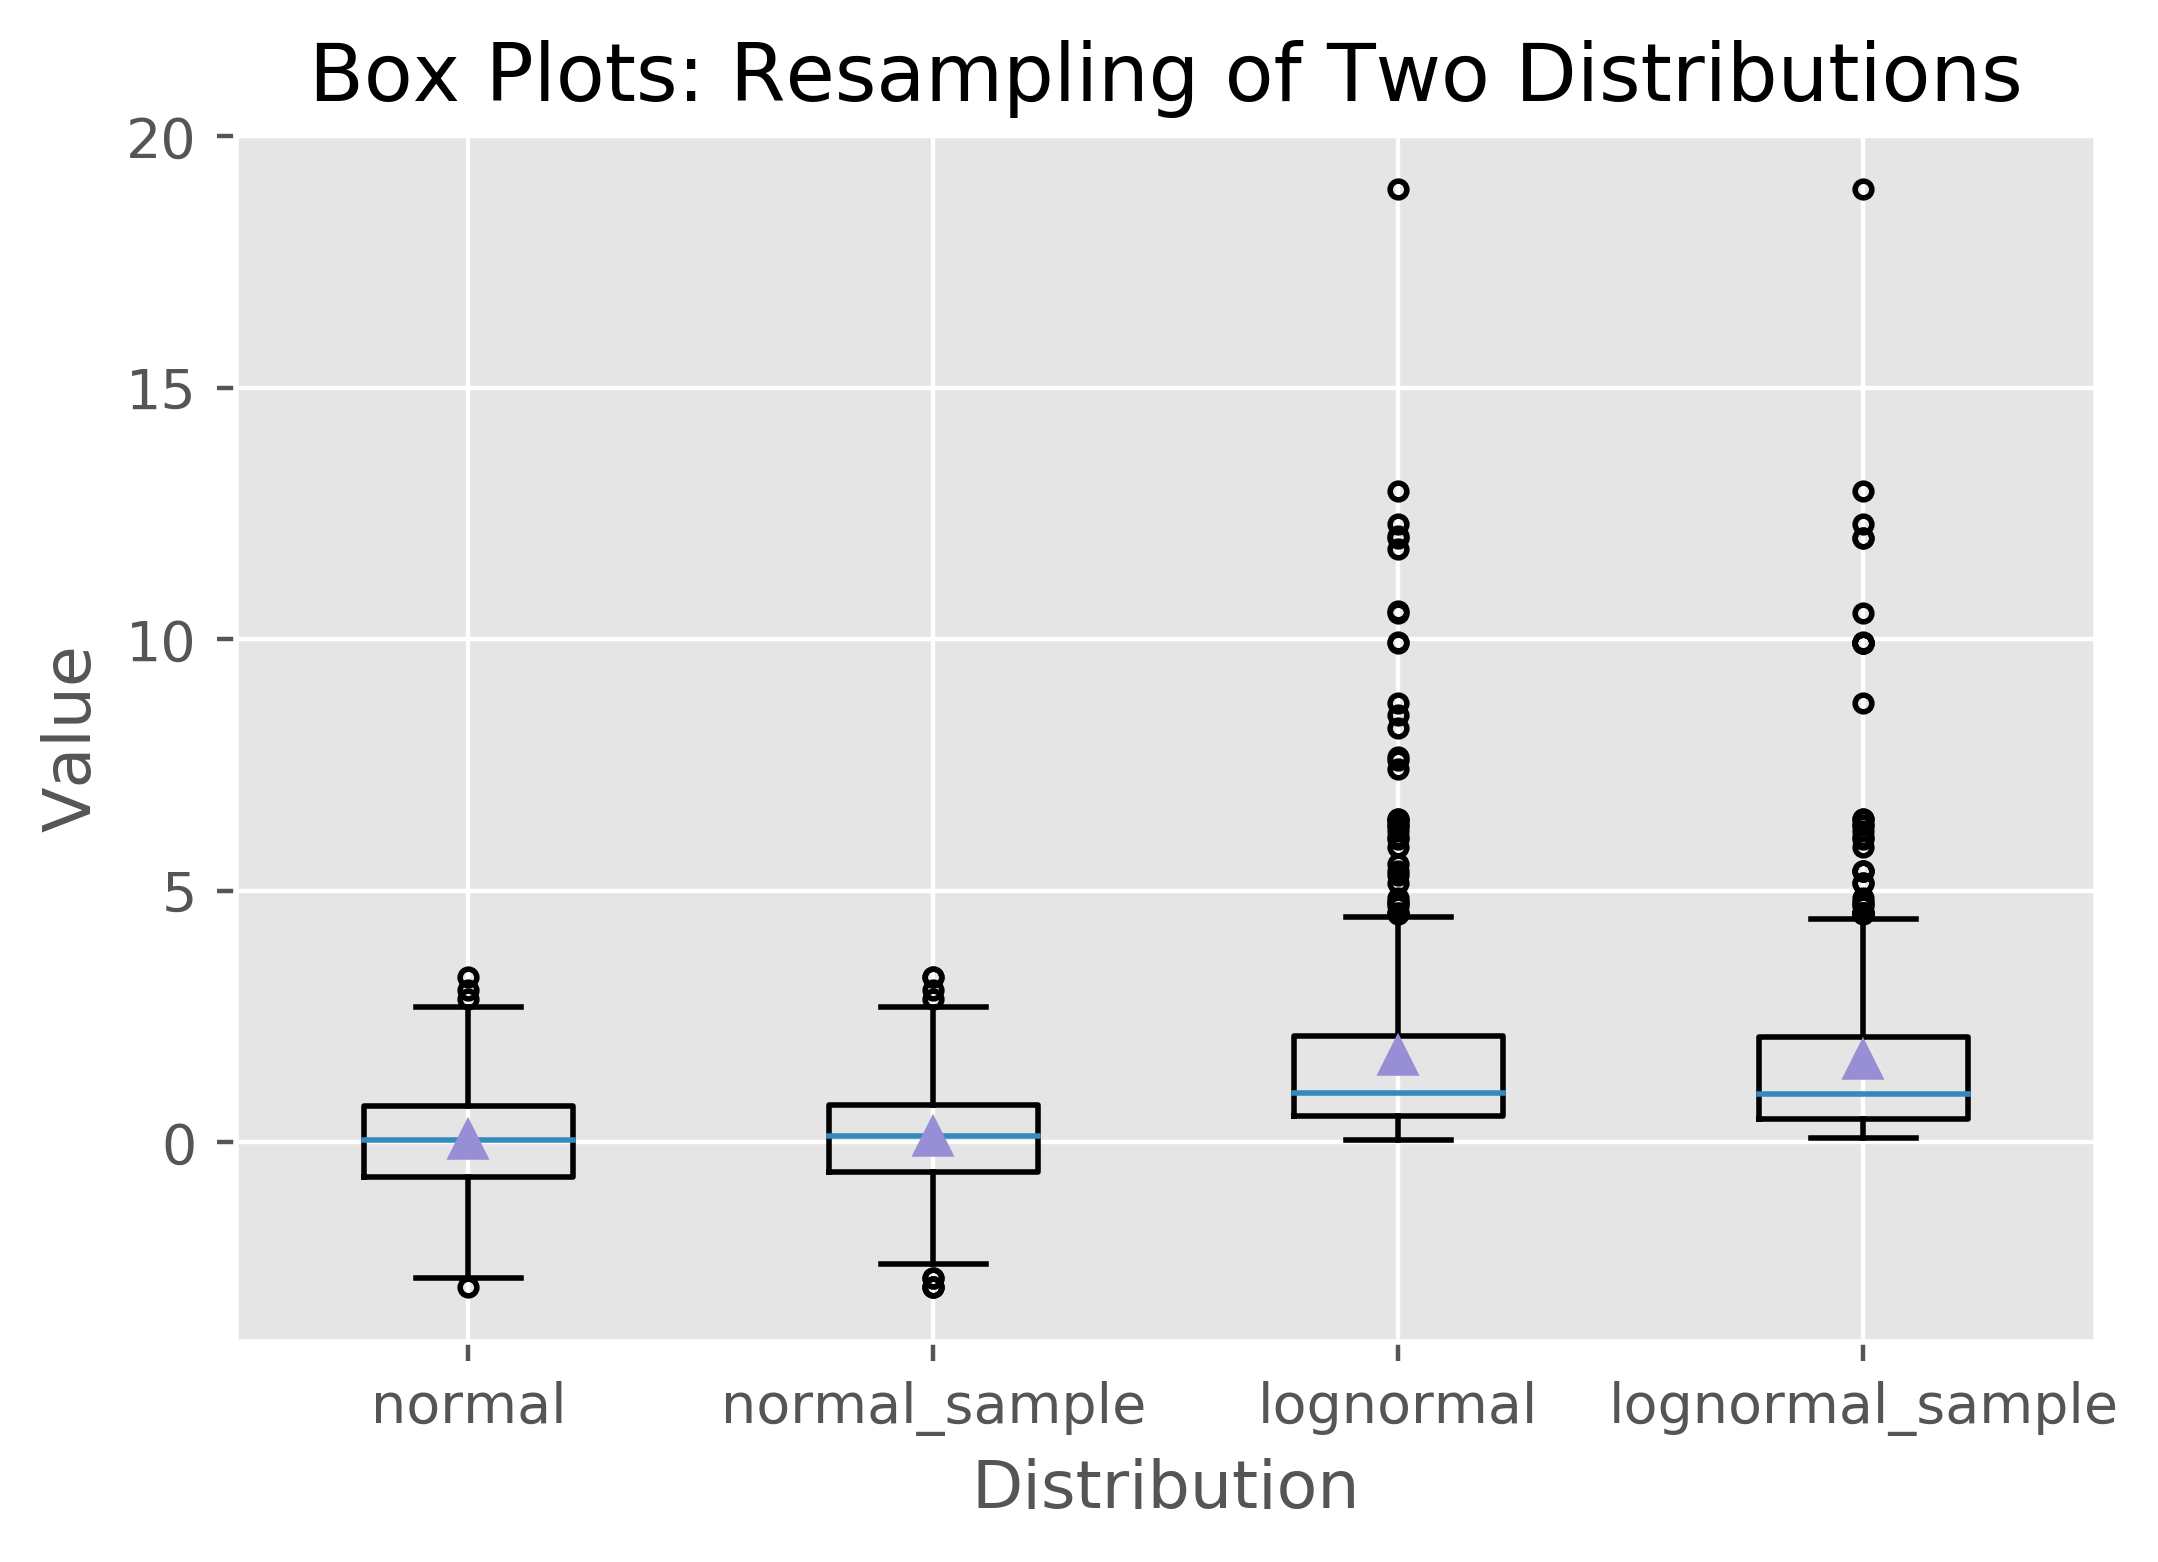
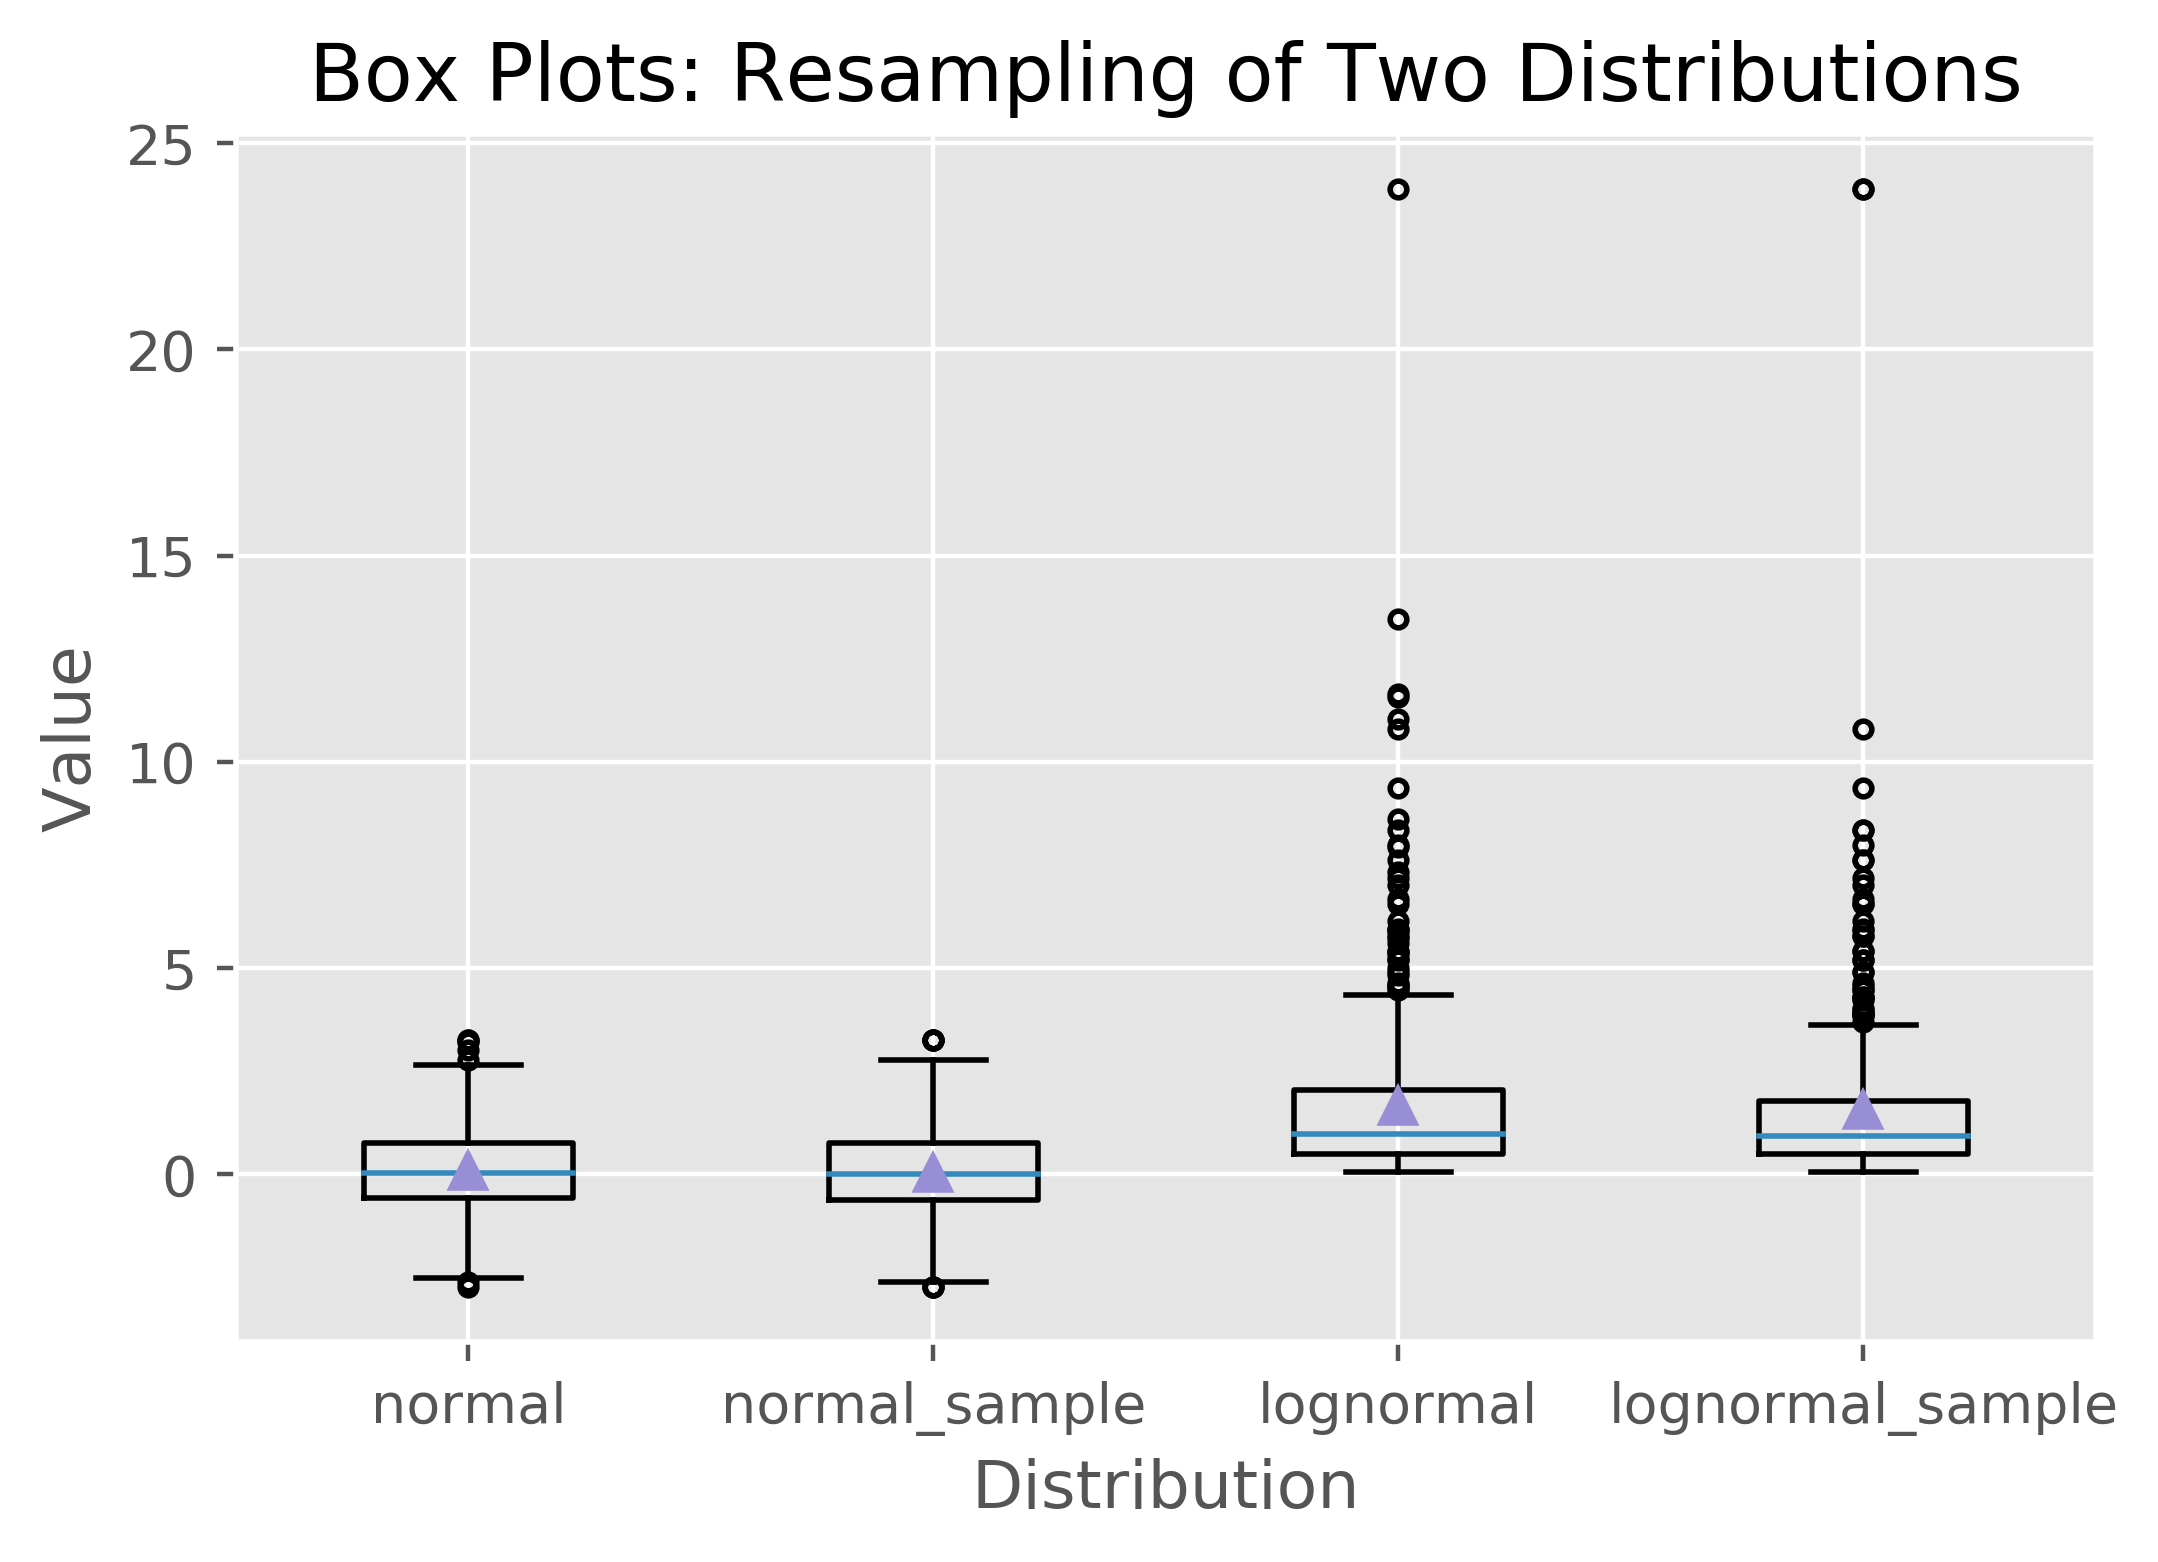
added

diff --git a/CodingCamp/PythonCamp/Day3.2.py b/CodingCamp/PythonCamp/Day3.2.py
@@ -113,34 +113,34 @@ Created on Wed Feb 13 00:35:34 2019
 #plt.savefig('scatter_plot.png', dpi=400, bbox_inches='tight')
 #plt.show()
 
-##5 Box plots represent data based on its minimum, first quartile, median, third quartile, and maximum values. The bottom and top of the box show the first and third quar‐ tile values, and the line through the middle of the box shows the median value. The lines, called whiskers, that extend from the ends of the box show the smallest and largest non-outlier values, and the points beyond the whiskers represent outliers.
-#
-#import numpy as np
-#import matplotlib.pyplot as plt
-#plt.style.use('ggplot')
-#
-#N = 500
-#normal = np.random.normal(loc=0.0, scale=1.0, size=N)
-#lognormal = np.random.lognormal(mean=0.0, sigma=1.0, size=N)
-#index_value = np.random.random_integers(low=0, high=N-1, size=N)
-#normal_sample = normal[index_value]
-#lognormal_sample = lognormal[index_value]
-#box_plot_data = [normal,normal_sample,lognormal,lognormal_sample]
-#
-#fig = plt.figure()
-#ax1 = fig.add_subplot(1,1,1)
-#
-#box_labels = ['normal','normal_sample','lognormal','lognormal_sample']
-#ax1.boxplot(box_plot_data, notch=False, sym='.', vert=True, whis=1.5, \
-#				showmeans=True, labels=box_labels)
-#ax1.xaxis.set_ticks_position('bottom')
-#ax1.yaxis.set_ticks_position('left')
-#ax1.set_title('Box Plots: Resampling of Two Distributions')
-#ax1.set_xlabel('Distribution')
-#ax1.set_ylabel('Value')
-#
-#plt.savefig('box_plot.png', dpi=400, bbox_inches='tight')
-#plt.show()
+#5 Box plots represent data based on its minimum, first quartile, median, third quartile, and maximum values. The bottom and top of the box show the first and third quar‐ tile values, and the line through the middle of the box shows the median value. The lines, called whiskers, that extend from the ends of the box show the smallest and largest non-outlier values, and the points beyond the whiskers represent outliers.
+
+import numpy as np
+import matplotlib.pyplot as plt
+plt.style.use('ggplot')
+
+N = 500
+normal = np.random.normal(loc=0.0, scale=1.0, size=N)
+lognormal = np.random.lognormal(mean=0.0, sigma=1.0, size=N)
+index_value = np.random.random_integers(low=0, high=N-1, size=N)
+normal_sample = normal[index_value]
+lognormal_sample = lognormal[index_value]
+box_plot_data = [normal,normal_sample,lognormal,lognormal_sample]
+
+fig = plt.figure()
+ax1 = fig.add_subplot(1,1,1)
+
+box_labels = ['normal','normal_sample','lognormal','lognormal_sample']
+ax1.boxplot(box_plot_data, notch=False, sym='.', vert=True, whis=1.5, \
+				showmeans=True, labels=box_labels)
+ax1.xaxis.set_ticks_position('bottom')
+ax1.yaxis.set_ticks_position('left')
+ax1.set_title('Box Plots: Resampling of Two Distributions')
+ax1.set_xlabel('Distribution')
+ax1.set_ylabel('Value')
+
+plt.savefig('box_plot.png', dpi=400, bbox_inches='tight')
+plt.show()
 
 
 ##6 pandas simplifies the process of creating figures and plots based on data in Series and DataFrames by providing a plot function that operates on Series and DataFrames. By default, the plot function creates line plots, but you can use the kind argument to create different types of plots.

diff --git a/CodingCamp/PythonCamp/Day4.3.py b/CodingCamp/PythonCamp/Day4.3.py
@@ -24,15 +24,15 @@ traffic = pinkwink_web['hit'].values
 
 fx = np.linspace(0, time[-1], 1000)
 
-## 1,2,3,15차 함수로 회귀
-#fp1 = np.polyfit(time, traffic, 1)
-#f1 = np.poly1d(fp1)
-#
-#f2p = np.polyfit(time, traffic, 2)
-#f2 = np.poly1d(f2p)
-#
-#f3p = np.polyfit(time, traffic, 3)
-#f3 = np.poly1d(f3p)
+# 1,2,3,15차 함수로 회귀
+fp1 = np.polyfit(time, traffic, 1)
+f1 = np.poly1d(fp1)
+
+f2p = np.polyfit(time, traffic, 2)
+f2 = np.poly1d(f2p)
+
+f3p = np.polyfit(time, traffic, 3)
+f3 = np.poly1d(f3p)
 
 f15p = np.polyfit(time, traffic, 15)
 f15 = np.poly1d(f15p)
